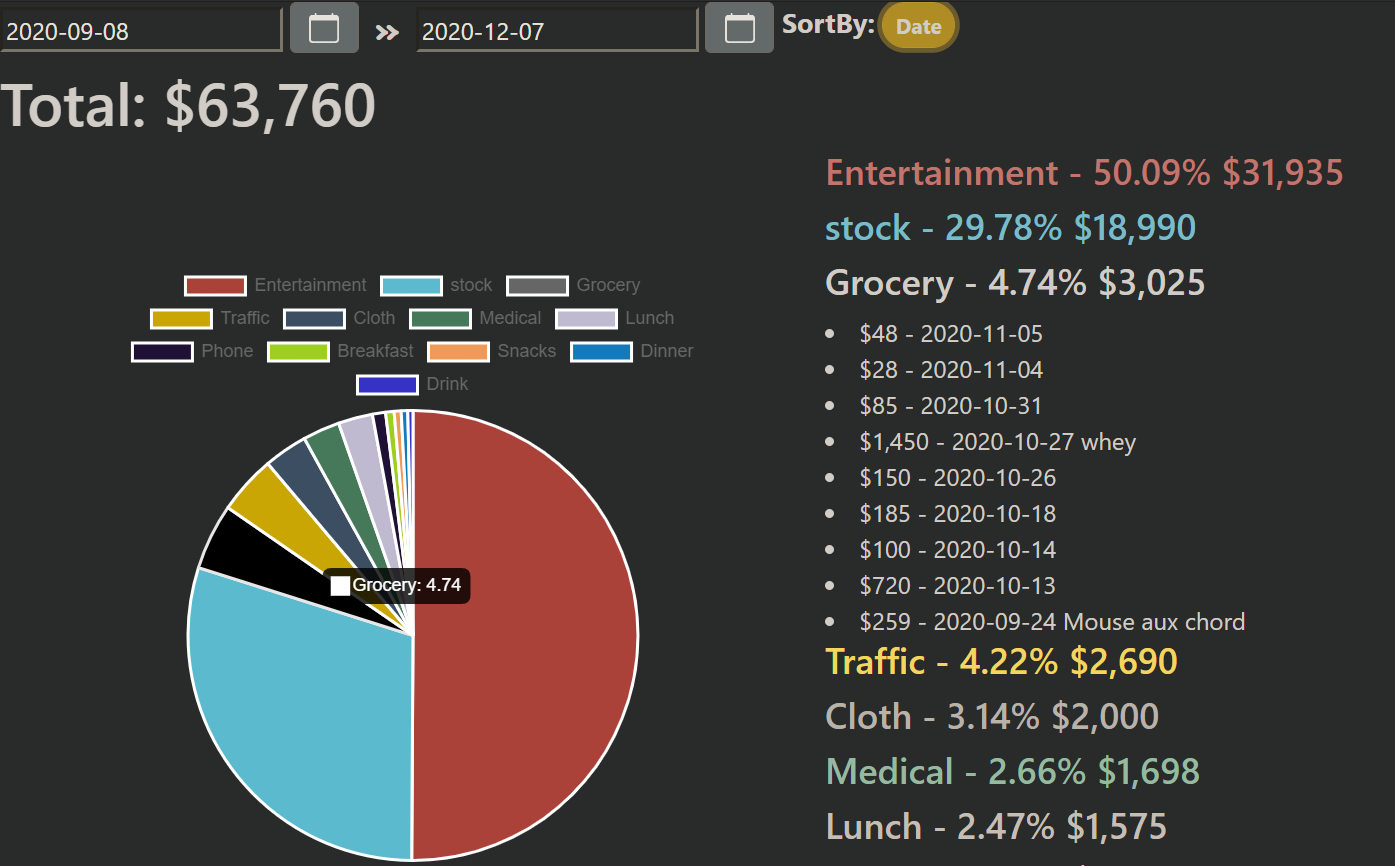
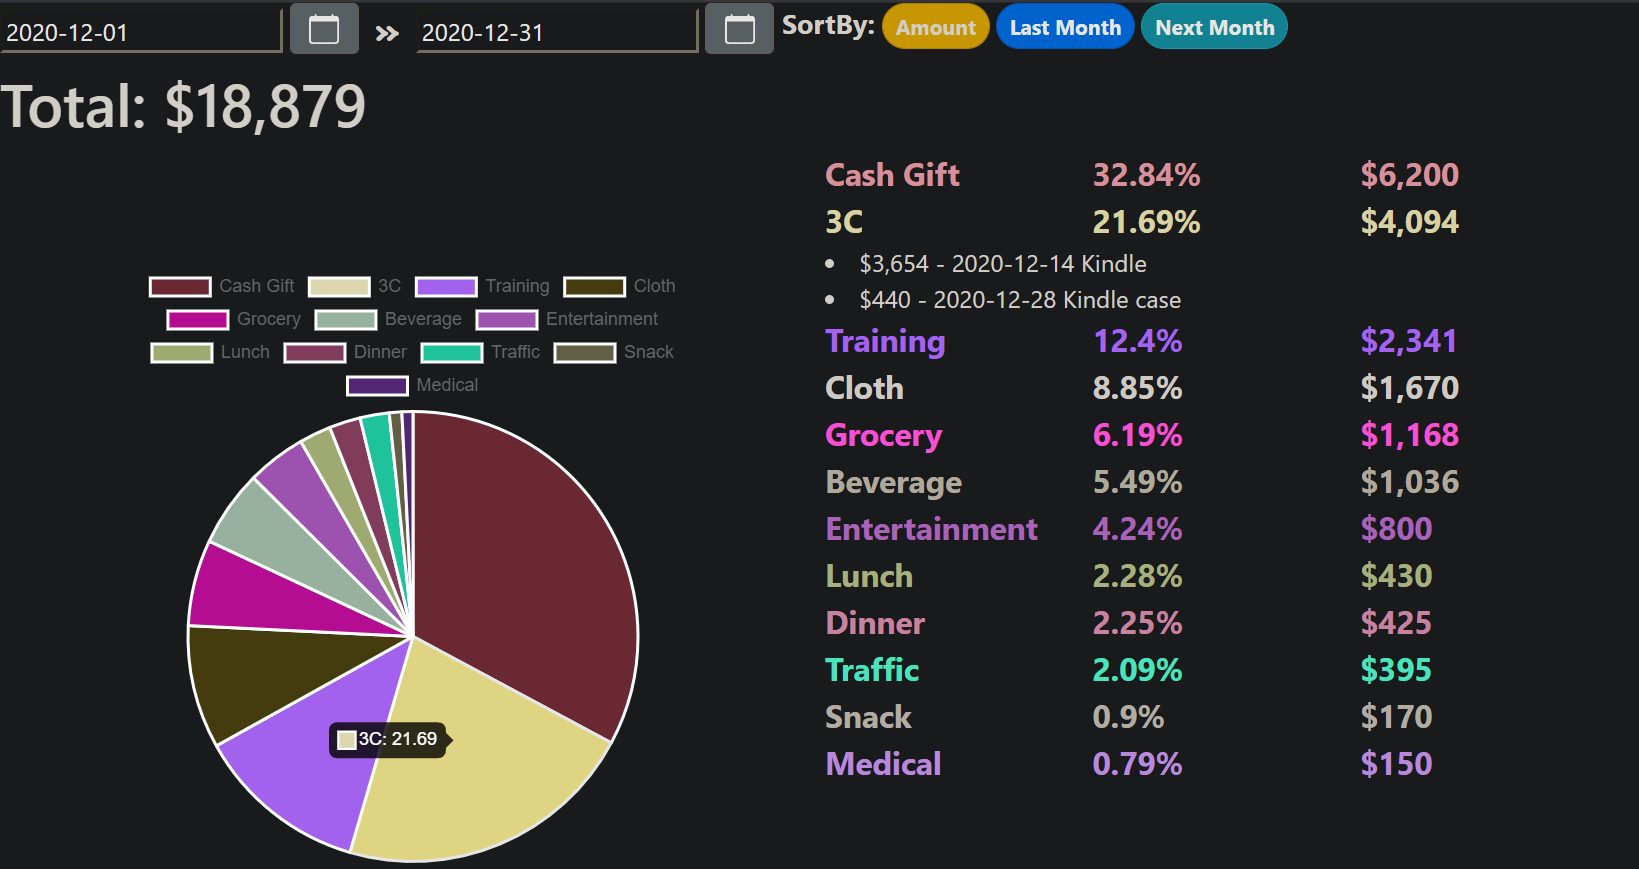
[Frontend #15] Add last and next month button

diff --git a/frontend/src/app.js b/frontend/src/app.js
@@ -80,6 +80,7 @@ new Vue({
                 categoriesExclude: this.categoriesExclude
             };
           },
+          fetchPolicy: 'network-only',
           async result (result) {
             this.categories = await result.data.entriesWithinCategories.categories;
             this.total = result.data.entriesWithinCategories.total;
@@ -133,6 +134,14 @@ new Vue({
         activeCategory: function (id) {
             if(this.activeCat === id) id = -1;
             this.activeCat = id;
-        }
+        },
+        lastMonth: function () {
+            this.start =  moment(this.end).subtract(1, 'months').startOf('month').format('YYYY-MM-DD');
+            this.end = moment(this.end).subtract(1, 'months').endOf('month').format('YYYY-MM-DD');
+        },
+        nextMonth: function () {
+            this.start =  moment(this.end).add(1, 'months').startOf('month').format('YYYY-MM-DD');
+            this.end = moment(this.end).add(1, 'months').endOf('month').format('YYYY-MM-DD');
+        },
     }
 })

diff --git a/frontend/index.html b/frontend/index.html
@@ -16,6 +16,8 @@
         </div>
         <font size = "4" style="float: left; font-weight:bold;">&nbsp;SortBy:&nbsp;</font>
         <b-button size="sm" pill variant="warning" @click="entriesSortByDate = !entriesSortByDate" style="font-weight:bold;">{{ entriesSortByDate ? 'Date' : 'Amount' }}</b-button>
+        <b-button size="sm" pill variant="primary" @click="lastMonth()" style="font-weight:bold;">Last Month</b-button>
+        <b-button size="sm" pill variant="info" @click="nextMonth()" style="font-weight:bold;">Next Month</b-button>
         <input title="Click to sync newest entries from Google drive." type="image" src="./google_drive.png" @click="loadNewData()" style="width: 40; position: absolute; right: 5px;"/>
     </div>
     <h1>Total: {{ total|toCurrency }}</h1>
